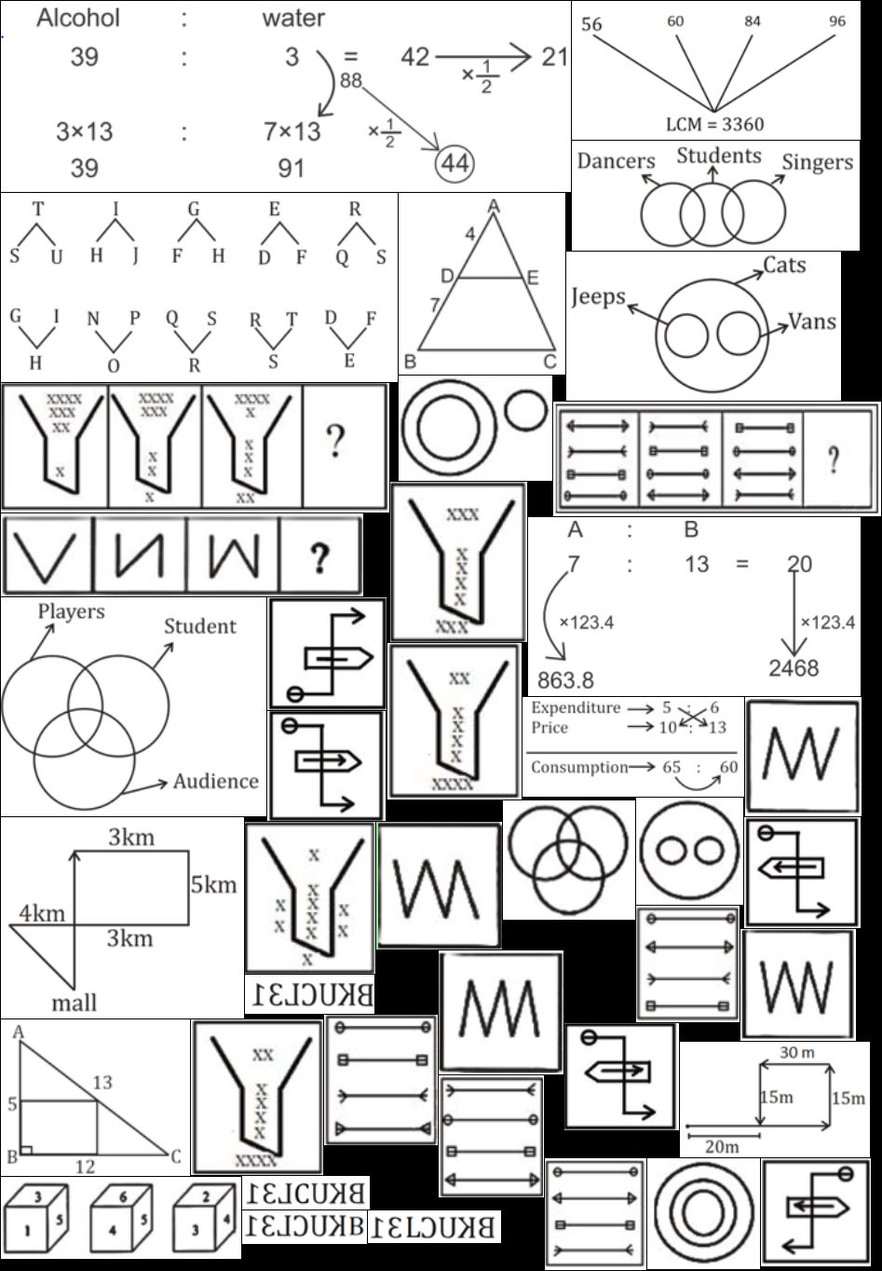
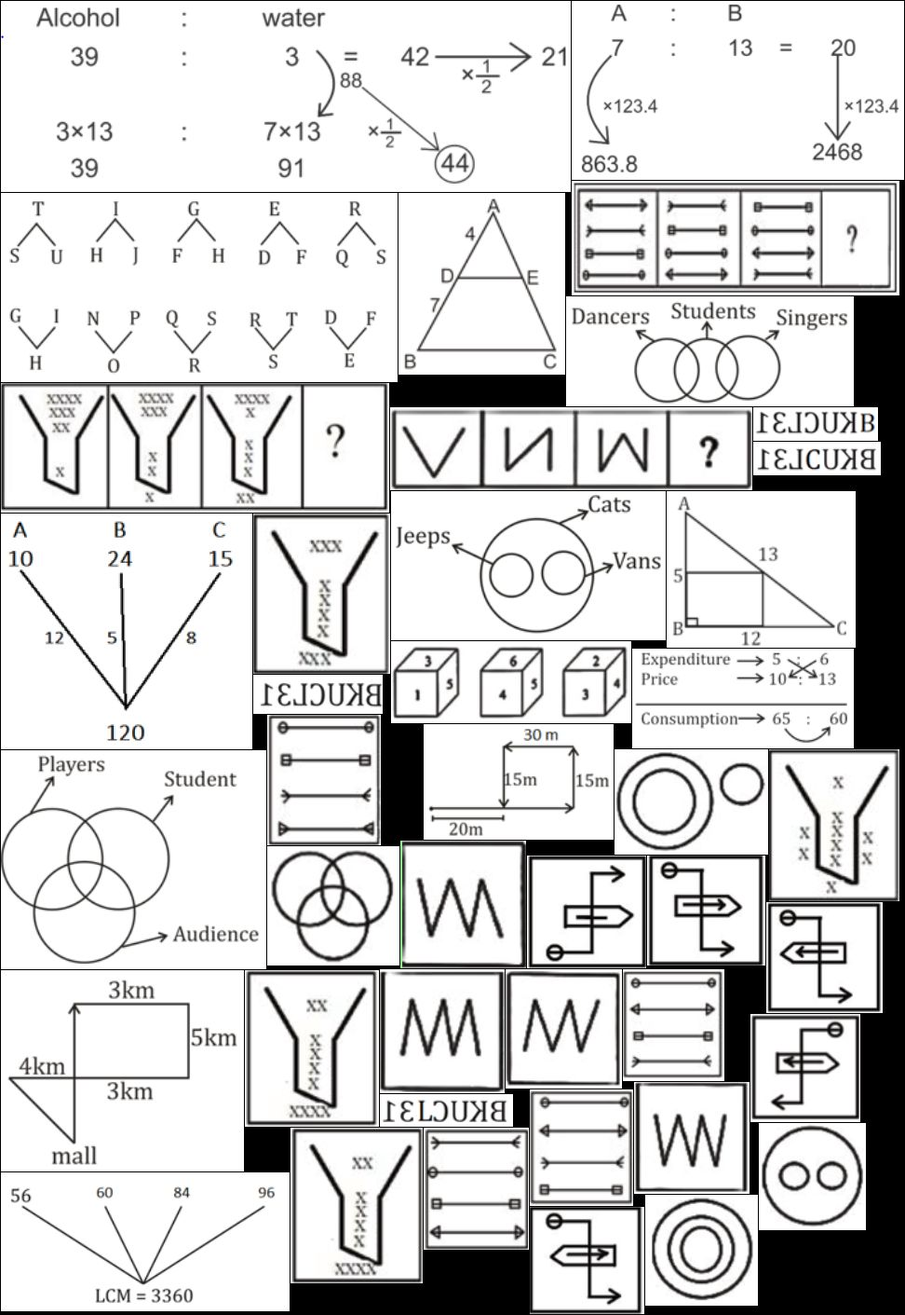
added.

diff --git a/img/railway/ntpc/model/prelims/ntpchinset7.css b/img/railway/ntpc/model/prelims/ntpchinset7.css
@@ -7,128 +7,131 @@ Responsive: <div class="yourspritesname"></div>
 */
 
 
+.RRBNTPC_7_1 {max-width:270px; max-height:253px; }
+.RRBNTPC_7_1::after {content: '\00a0';display: inline-block; width:270px; height:253px; background-position: 0.14245014245014245% 47.58203799654577%;background-size: 360% 557.7075098814229%;background-image: url(ntpchinset7.jpg);padding: 0; }
+div.RRBNTPC_7_1::after {max-width:270px; width:100%;height:0;padding: 0 0 93.70370370370371% 0;}
 .RRBNTPC_7_11 {max-width:179px; max-height:195px; }
-.RRBNTPC_7_11::after {content: '\00a0';display: inline-block; width:179px; height:195px; background-position: 55.729166666666664% 17.70744225834046%;background-size: 529.0502793296089% 699.4871794871794%;background-image: url(ntpchinset7.jpg);padding: 0; }
+.RRBNTPC_7_11::after {content: '\00a0';display: inline-block; width:179px; height:195px; background-position: 53.97225725094577% 17.023026315789473%;background-size: 543.0167597765363% 723.5897435897435%;background-image: url(ntpchinset7.jpg);padding: 0; }
 div.RRBNTPC_7_11::after {max-width:179px; width:100%;height:0;padding: 0 0 108.93854748603351% 0;}
 .RRBNTPC_7_13 {max-width:612px; max-height:205px; }
-.RRBNTPC_7_13::after {content: '\00a0';display: inline-block; width:612px; height:205px; background-position: 0.29850746268656714% 0.08628127696289906%;background-size: 154.73856209150327% 665.3658536585366%;background-image: url(ntpchinset7.jpg);padding: 0; }
+.RRBNTPC_7_13::after {content: '\00a0';display: inline-block; width:612px; height:205px; background-position: 0.2777777777777778% 0.08291873963515754%;background-size: 158.8235294117647% 688.2926829268292%;background-image: url(ntpchinset7.jpg);padding: 0; }
 div.RRBNTPC_7_13::after {max-width:612px; width:100%;height:0;padding: 0 0 33.49673202614379% 0;}
 .RRBNTPC_7_18 {max-width:310px; max-height:149px; }
-.RRBNTPC_7_18::after {content: '\00a0';display: inline-block; width:310px; height:149px; background-position: 96.38932496075353% 0.0823045267489712%;background-size: 305.48387096774195% 915.4362416107383%;background-image: url(ntpchinset7.jpg);padding: 0; }
+.RRBNTPC_7_18::after {content: '\00a0';display: inline-block; width:310px; height:149px; background-position: 0.1510574018126888% 99.68304278922345%;background-size: 313.5483870967742% 946.9798657718121%;background-image: url(ntpchinset7.jpg);padding: 0; }
 div.RRBNTPC_7_18::after {max-width:310px; width:100%;height:0;padding: 0 0 48.064516129032256% 0;}
 .RRBNTPC_7_19 {max-width:203px; max-height:168px; }
-.RRBNTPC_7_19::after {content: '\00a0';display: inline-block; width:203px; height:168px; background-position: 0.13440860215053763% 91.47157190635451%;background-size: 466.5024630541872% 811.9047619047619%;background-image: url(ntpchinset7.jpg);padding: 0; }
+.RRBNTPC_7_19::after {content: '\00a0';display: inline-block; width:203px; height:168px; background-position: 93.10793237971392% 42.39742558326629%;background-size: 478.81773399014776% 839.8809523809524%;background-image: url(ntpchinset7.jpg);padding: 0; }
 div.RRBNTPC_7_19::after {max-width:203px; width:100%;height:0;padding: 0 0 82.75862068965517% 0;}
 .RRBNTPC_7_3 {max-width:238px; max-height:107px; }
-.RRBNTPC_7_3::after {content: '\00a0';display: inline-block; width:238px; height:107px; background-position: 79.12552891396332% 59.50676213206046%;background-size: 397.89915966386553% 1274.766355140187%;background-image: url(ntpchinset7.jpg);padding: 0; }
+.RRBNTPC_7_3::after {content: '\00a0';display: inline-block; width:238px; height:107px; background-position: 92.50681198910081% 53.374233128834355%;background-size: 408.4033613445378% 1318.6915887850466%;background-image: url(ntpchinset7.jpg);padding: 0; }
 div.RRBNTPC_7_3::after {max-width:238px; width:100%;height:0;padding: 0 0 44.95798319327731% 0;}
 .RRBNTPC_7_33_1 {max-width:134px; max-height:36px; }
-.RRBNTPC_7_33_1::after {content: '\00a0';display: inline-block; width:134px; height:36px; background-position: 31.980319803198032% 97.81626506024097%;background-size: 706.7164179104477% 3788.8888888888887%;background-image: url(ntpchinset7.jpg);padding: 0; }
+.RRBNTPC_7_33_1::after {content: '\00a0';display: inline-block; width:134px; height:36px; background-position: 96.53937947494033% 31.78181818181818%;background-size: 725.3731343283582% 3919.4444444444443%;background-image: url(ntpchinset7.jpg);padding: 0; }
 div.RRBNTPC_7_33_1::after {max-width:134px; width:100%;height:0;padding: 0 0 26.865671641791046% 0;}
 .RRBNTPC_7_33_2 {max-width:137px; max-height:36px; }
-.RRBNTPC_7_33_2::after {content: '\00a0';display: inline-block; width:137px; height:36px; background-position: 32.098765432098766% 95.03012048192771%;background-size: 691.2408759124088% 3788.8888888888887%;background-image: url(ntpchinset7.jpg);padding: 0; }
+.RRBNTPC_7_33_2::after {content: '\00a0';display: inline-block; width:137px; height:36px; background-position: 96.88622754491018% 34.472727272727276%;background-size: 709.4890510948906% 3919.4444444444443%;background-image: url(ntpchinset7.jpg);padding: 0; }
 div.RRBNTPC_7_33_2::after {max-width:137px; width:100%;height:0;padding: 0 0 26.277372262773724% 0;}
 .RRBNTPC_7_33_3 {max-width:143px; max-height:35px; }
-.RRBNTPC_7_33_3::after {content: '\00a0';display: inline-block; width:143px; height:35px; background-position: 49.12935323383085% 97.74266365688487%;background-size: 662.2377622377622% 3897.1428571428573%;background-image: url(ntpchinset7.jpg);padding: 0; }
+.RRBNTPC_7_33_3::after {content: '\00a0';display: inline-block; width:143px; height:35px; background-position: 49.21592279855247% 85.31976744186046%;background-size: 679.7202797202797% 4031.4285714285716%;background-image: url(ntpchinset7.jpg);padding: 0; }
 div.RRBNTPC_7_33_3::after {max-width:143px; width:100%;height:0;padding: 0 0 24.475524475524477% 0;}
 .RRBNTPC_7_33_4 {max-width:139px; max-height:42px; }
-.RRBNTPC_7_33_4::after {content: '\00a0';display: inline-block; width:139px; height:42px; background-position: 32.54950495049505% 79.12254160363086%;background-size: 681.294964028777% 3247.6190476190477%;background-image: url(ntpchinset7.jpg);padding: 0; }
+.RRBNTPC_7_33_4::after {content: '\00a0';display: inline-block; width:139px; height:42px; background-position: 32.6530612244898% 52.885317750182615%;background-size: 699.2805755395683% 3359.5238095238096%;background-image: url(ntpchinset7.jpg);padding: 0; }
 div.RRBNTPC_7_33_4::after {max-width:139px; width:100%;height:0;padding: 0 0 30.215827338129497% 0;}
 .RRBNTPC_7_38 {max-width:417px; max-height:139px; }
-.RRBNTPC_7_38::after {content: '\00a0';display: inline-block; width:417px; height:139px; background-position: 0.18867924528301888% 33.55102040816327%;background-size: 227.09832134292566% 981.294964028777%;background-image: url(ntpchinset7.jpg);padding: 0; }
+.RRBNTPC_7_38::after {content: '\00a0';display: inline-block; width:417px; height:139px; background-position: 0.18018018018018017% 32.31132075471698%;background-size: 233.0935251798561% 1015.1079136690647%;background-image: url(ntpchinset7.jpg);padding: 0; }
 div.RRBNTPC_7_38::after {max-width:417px; width:100%;height:0;padding: 0 0 33.333333333333336% 0;}
 .RRBNTPC_7_38_1 {max-width:147px; max-height:172px; }
-.RRBNTPC_7_38_1::after {content: '\00a0';display: inline-block; width:147px; height:172px; background-position: 52.375% 43.37248322147651%;background-size: 644.2176870748299% 793.0232558139535%;background-image: url(ntpchinset7.jpg);padding: 0; }
+.RRBNTPC_7_38_1::after {content: '\00a0';display: inline-block; width:147px; height:172px; background-position: 32.96969696969697% 44.47134786117837%;background-size: 661.2244897959183% 820.3488372093024%;background-image: url(ntpchinset7.jpg);padding: 0; }
 div.RRBNTPC_7_38_1::after {max-width:147px; width:100%;height:0;padding: 0 0 117.00680272108843% 0;}
 .RRBNTPC_7_38_2 {max-width:144px; max-height:168px; }
-.RRBNTPC_7_38_2::after {content: '\00a0';display: inline-block; width:144px; height:168px; background-position: 51.805728518057286% 57.69230769230769%;background-size: 657.6388888888889% 811.9047619047619%;background-image: url(ntpchinset7.jpg);padding: 0; }
+.RRBNTPC_7_38_2::after {content: '\00a0';display: inline-block; width:144px; height:168px; background-position: 31.76328502415459% 83.7489943684634%;background-size: 675% 839.8809523809524%;background-image: url(ntpchinset7.jpg);padding: 0; }
 div.RRBNTPC_7_38_2::after {max-width:144px; width:100%;height:0;padding: 0 0 116.66666666666667% 0;}
 .RRBNTPC_7_38_3 {max-width:142px; max-height:167px; }
-.RRBNTPC_7_38_3::after {content: '\00a0';display: inline-block; width:142px; height:167px; background-position: 25.46583850931677% 91.3951545530493%;background-size: 666.9014084507043% 816.7664670658683%;background-image: url(ntpchinset7.jpg);padding: 0; }
+.RRBNTPC_7_38_3::after {content: '\00a0';display: inline-block; width:142px; height:167px; background-position: 37.59036144578313% 97.26688102893891%;background-size: 684.5070422535211% 844.9101796407185%;background-image: url(ntpchinset7.jpg);padding: 0; }
 div.RRBNTPC_7_38_3::after {max-width:142px; width:100%;height:0;padding: 0 0 117.6056338028169% 0;}
 .RRBNTPC_7_38_4 {max-width:140px; max-height:163px; }
-.RRBNTPC_7_38_4::after {content: '\00a0';display: inline-block; width:140px; height:163px; background-position: 32.58983890954151% 73.43880099916736%;background-size: 676.4285714285714% 836.8098159509202%;background-image: url(ntpchinset7.jpg);padding: 0; }
+.RRBNTPC_7_38_4::after {content: '\00a0';display: inline-block; width:140px; height:163px; background-position: 99.27884615384616% 64.42307692307692%;background-size: 694.2857142857143% 865.6441717791411%;background-image: url(ntpchinset7.jpg);padding: 0; }
 div.RRBNTPC_7_38_4::after {max-width:140px; width:100%;height:0;padding: 0 0 116.42857142857143% 0;}
 .RRBNTPC_7_39 {max-width:204px; max-height:124px; }
-.RRBNTPC_7_39::after {content: '\00a0';display: inline-block; width:204px; height:124px; background-position: 98.25033647375504% 90.16129032258064%;background-size: 464.2156862745098% 1100%;background-image: url(ntpchinset7.jpg);padding: 0; }
+.RRBNTPC_7_39::after {content: '\00a0';display: inline-block; width:204px; height:124px; background-position: 59.244791666666664% 60.37296037296037%;background-size: 476.47058823529414% 1137.9032258064517%;background-image: url(ntpchinset7.jpg);padding: 0; }
 div.RRBNTPC_7_39::after {max-width:204px; width:100%;height:0;padding: 0 0 60.78431372549019% 0;}
 .RRBNTPC_7_40 {max-width:309px; max-height:118px; }
-.RRBNTPC_7_40::after {content: '\00a0';display: inline-block; width:309px; height:118px; background-position: 96.23824451410658% 12.118780096308186%;background-size: 306.4724919093851% 1155.9322033898304%;background-image: url(ntpchinset7.jpg);padding: 0; }
+.RRBNTPC_7_40::after {content: '\00a0';display: inline-block; width:309px; height:118px; background-position: 91.70437405731523% 24.593967517401392%;background-size: 314.56310679611653% 1195.7627118644068%;background-image: url(ntpchinset7.jpg);padding: 0; }
 div.RRBNTPC_7_40::after {max-width:309px; width:100%;height:0;padding: 0 0 38.18770226537217% 0;}
 .RRBNTPC_7_43 {max-width:352px; max-height:123px; }
-.RRBNTPC_7_43::after {content: '\00a0';display: inline-block; width:352px; height:123px; background-position: 99.83193277310924% 34.73005640612409%;background-size: 269.03409090909093% 1108.9430894308944%;background-image: url(ntpchinset7.jpg);padding: 0; }
+.RRBNTPC_7_43::after {content: '\00a0';display: inline-block; width:352px; height:123px; background-position: 99.03225806451613% 15.062111801242237%;background-size: 276.1363636363636% 1147.1544715447155%;background-image: url(ntpchinset7.jpg);padding: 0; }
 div.RRBNTPC_7_43::after {max-width:352px; width:100%;height:0;padding: 0 0 34.94318181818182% 0;}
 .RRBNTPC_7_43_1 {max-width:122px; max-height:140px; }
-.RRBNTPC_7_43_1::after {content: '\00a0';display: inline-block; width:122px; height:140px; background-position: 42.18181818181818% 88.97058823529412%;background-size: 776.2295081967213% 974.2857142857143%;background-image: url(ntpchinset7.jpg);padding: 0; }
+.RRBNTPC_7_43_1::after {content: '\00a0';display: inline-block; width:122px; height:140px; background-position: 33.76470588235294% 60.34618410700236%;background-size: 796.7213114754098% 1007.8571428571429%;background-image: url(ntpchinset7.jpg);padding: 0; }
 div.RRBNTPC_7_43_1::after {max-width:122px; width:100%;height:0;padding: 0 0 114.75409836065573% 0;}
 .RRBNTPC_7_43_2 {max-width:109px; max-height:120px; }
-.RRBNTPC_7_43_2::after {content: '\00a0';display: inline-block; width:109px; height:120px; background-position: 69.8090692124105% 99.91961414790997%;background-size: 868.8073394495412% 1136.6666666666667%;background-image: url(ntpchinset7.jpg);padding: 0; }
+.RRBNTPC_7_43_2::after {content: '\00a0';display: inline-block; width:109px; height:120px; background-position: 77.52027809965237% 80.55770720371805%;background-size: 891.743119266055% 1175.8333333333333%;background-image: url(ntpchinset7.jpg);padding: 0; }
 div.RRBNTPC_7_43_2::after {max-width:109px; width:100%;height:0;padding: 0 0 110.09174311926606% 0;}
 .RRBNTPC_7_43_3 {max-width:111px; max-height:125px; }
-.RRBNTPC_7_43_3::after {content: '\00a0';display: inline-block; width:111px; height:125px; background-position: 81.69856459330144% 78.4503631961259%;background-size: 853.1531531531532% 1091.2%;background-image: url(ntpchinset7.jpg);padding: 0; }
+.RRBNTPC_7_43_3::after {content: '\00a0';display: inline-block; width:111px; height:125px; background-position: 66.08594657375146% 90.90202177293935%;background-size: 875.6756756756756% 1128.8%;background-image: url(ntpchinset7.jpg);padding: 0; }
 div.RRBNTPC_7_43_3::after {max-width:111px; width:100%;height:0;padding: 0 0 112.61261261261261% 0;}
 .RRBNTPC_7_43_4 {max-width:113px; max-height:131px; }
-.RRBNTPC_7_43_4::after {content: '\00a0';display: inline-block; width:113px; height:131px; background-position: 56.47482014388489% 93.59286293592864%;background-size: 838.0530973451328% 1041.2213740458014%;background-image: url(ntpchinset7.jpg);padding: 0; }
+.RRBNTPC_7_43_4::after {content: '\00a0';display: inline-block; width:113px; height:131px; background-position: 52.968568102444706% 94.53125%;background-size: 860.1769911504425% 1077.0992366412213%;background-image: url(ntpchinset7.jpg);padding: 0; }
 div.RRBNTPC_7_43_4::after {max-width:113px; width:100%;height:0;padding: 0 0 115.929203539823% 0;}
 .RRBNTPC_7_47 {max-width:118px; max-height:116px; }
-.RRBNTPC_7_47::after {content: '\00a0';display: inline-block; width:118px; height:116px; background-position: 98.55247285886611% 99.59935897435898%;background-size: 802.542372881356% 1175.8620689655172%;background-image: url(ntpchinset7.jpg);padding: 0; }
+.RRBNTPC_7_47::after {content: '\00a0';display: inline-block; width:118px; height:116px; background-position: 94.37939110070258% 84.01544401544402%;background-size: 823.728813559322% 1216.3793103448277%;background-image: url(ntpchinset7.jpg);padding: 0; }
 div.RRBNTPC_7_47::after {max-width:118px; width:100%;height:0;padding: 0 0 98.30508474576271% 0;}
 .RRBNTPC_7_47_o_1 {max-width:125px; max-height:119px; }
-.RRBNTPC_7_47_o_1::after {content: '\00a0';display: inline-block; width:125px; height:119px; background-position: 97.20194647201946% 70.4417670682731%;background-size: 757.6% 1146.218487394958%;background-image: url(ntpchinset7.jpg);padding: 0; }
+.RRBNTPC_7_47_o_1::after {content: '\00a0';display: inline-block; width:125px; height:119px; background-position: 97.16646989374262% 74.92260061919505%;background-size: 777.6% 1185.7142857142858%;background-image: url(ntpchinset7.jpg);padding: 0; }
 div.RRBNTPC_7_47_o_1::after {max-width:125px; width:100%;height:0;padding: 0 0 95.2% 0;}
 .RRBNTPC_7_47_o_2 {max-width:123px; max-height:115px; }
-.RRBNTPC_7_47_o_2::after {content: '\00a0';display: inline-block; width:123px; height:115px; background-position: 73.54368932038835% 87.9103282626101%;background-size: 769.9186991869918% 1186.0869565217392%;background-image: url(ntpchinset7.jpg);padding: 0; }
+.RRBNTPC_7_47_o_2::after {content: '\00a0';display: inline-block; width:123px; height:115px; background-position: 67.02002355712602% 99.92283950617283%;background-size: 790.2439024390244% 1226.9565217391305%;background-image: url(ntpchinset7.jpg);padding: 0; }
 div.RRBNTPC_7_47_o_2::after {max-width:123px; width:100%;height:0;padding: 0 0 93.4959349593496% 0;}
 .RRBNTPC_7_47_o_3 {max-width:127px; max-height:118px; }
-.RRBNTPC_7_47_o_3::after {content: '\00a0';display: inline-block; width:127px; height:118px; background-position: 35% 61.235955056179776%;background-size: 745.6692913385826% 1155.9322033898304%;background-image: url(ntpchinset7.jpg);padding: 0; }
+.RRBNTPC_7_47_o_3::after {content: '\00a0';display: inline-block; width:127px; height:118px; background-position: 82.24852071005917% 70.99767981438515%;background-size: 765.3543307086615% 1195.7627118644068%;background-image: url(ntpchinset7.jpg);padding: 0; }
 div.RRBNTPC_7_47_o_3::after {max-width:127px; width:100%;height:0;padding: 0 0 92.91338582677166% 0;}
 .RRBNTPC_7_47_o_4 {max-width:128px; max-height:121px; }
-.RRBNTPC_7_47_o_4::after {content: '\00a0';display: inline-block; width:128px; height:121px; background-position: 35.042735042735046% 51.56878519710378%;background-size: 739.84375% 1127.2727272727273%;background-image: url(ntpchinset7.jpg);padding: 0; }
+.RRBNTPC_7_47_o_4::after {content: '\00a0';display: inline-block; width:128px; height:121px; background-position: 67.06161137440758% 71.16279069767442%;background-size: 759.375% 1166.1157024793388%;background-image: url(ntpchinset7.jpg);padding: 0; }
 div.RRBNTPC_7_47_o_4::after {max-width:128px; width:100%;height:0;padding: 0 0 94.53125% 0;}
 .RRBNTPC_7_50 {max-width:295px; max-height:160px; }
-.RRBNTPC_7_50::after {content: '\00a0';display: inline-block; width:295px; height:160px; background-position: 93.25153374233129% 22.425249169435215%;background-size: 321.0169491525424% 852.5%;background-image: url(ntpchinset7.jpg);padding: 0; }
+.RRBNTPC_7_50::after {content: '\00a0';display: inline-block; width:295px; height:160px; background-position: 62.0384047267356% 42.126298960831335%;background-size: 329.49152542372883% 881.875%;background-image: url(ntpchinset7.jpg);padding: 0; }
 div.RRBNTPC_7_50::after {max-width:295px; width:100%;height:0;padding: 0 0 54.23728813559322% 0;}
 .RRBNTPC_7_53 {max-width:426px; max-height:203px; }
-.RRBNTPC_7_53::after {content: '\00a0';display: inline-block; width:426px; height:203px; background-position: 0.19193857965451055% 17.829457364341085%;background-size: 222.30046948356807% 671.9211822660099%;background-image: url(ntpchinset7.jpg);padding: 0; }
+.RRBNTPC_7_53::after {content: '\00a0';display: inline-block; width:426px; height:203px; background-position: 0.18315018315018314% 17.135761589403973%;background-size: 228.16901408450704% 695.0738916256157%;background-image: url(ntpchinset7.jpg);padding: 0; }
 div.RRBNTPC_7_53::after {max-width:426px; width:100%;height:0;padding: 0 0 47.652582159624416% 0;}
 .RRBNTPC_7_56_o_1 {max-width:115px; max-height:115px; }
-.RRBNTPC_7_56_o_1::after {content: '\00a0';display: inline-block; width:115px; height:115px; background-position: 82.09134615384616% 68.53482786228983%;background-size: 823.4782608695652% 1186.0869565217392%;background-image: url(ntpchinset7.jpg);padding: 0; }
+.RRBNTPC_7_56_o_1::after {content: '\00a0';display: inline-block; width:115px; height:115px; background-position: 95.09918319719954% 92.97839506172839%;background-size: 845.2173913043479% 1226.9565217391305%;background-image: url(ntpchinset7.jpg);padding: 0; }
 div.RRBNTPC_7_56_o_1::after {max-width:115px; width:100%;height:0;padding: 0 0 100% 0;}
 .RRBNTPC_7_56_o_2 {max-width:142px; max-height:128px; }
-.RRBNTPC_7_56_o_2::after {content: '\00a0';display: inline-block; width:142px; height:128px; background-position: 67.0807453416149% 69.49838187702265%;background-size: 666.9014084507043% 1065.625%;background-image: url(ntpchinset7.jpg);padding: 0; }
+.RRBNTPC_7_56_o_2::after {content: '\00a0';display: inline-block; width:142px; height:128px; background-position: 34.57831325301205% 70.77162899454403%;background-size: 684.5070422535211% 1102.34375%;background-image: url(ntpchinset7.jpg);padding: 0; }
 div.RRBNTPC_7_56_o_2::after {max-width:142px; width:100%;height:0;padding: 0 0 90.14084507042253% 0;}
 .RRBNTPC_7_56_o_3 {max-width:165px; max-height:113px; }
-.RRBNTPC_7_56_o_3::after {content: '\00a0';display: inline-block; width:165px; height:113px; background-position: 54.73145780051151% 32.214228617106315%;background-size: 573.939393939394% 1207.0796460176991%;background-image: url(ntpchinset7.jpg);padding: 0; }
+.RRBNTPC_7_56_o_3::after {content: '\00a0';display: inline-block; width:165px; height:113px; background-position: 81.78438661710037% 61.941448382126346%;background-size: 589.0909090909091% 1248.6725663716813%;background-image: url(ntpchinset7.jpg);padding: 0; }
 div.RRBNTPC_7_56_o_3::after {max-width:165px; width:100%;height:0;padding: 0 0 68.48484848484848% 0;}
 .RRBNTPC_7_56_o_4 {max-width:121px; max-height:119px; }
-.RRBNTPC_7_56_o_4::after {content: '\00a0';display: inline-block; width:121px; height:119px; background-position: 84.14043583535108% 99.83935742971887%;background-size: 782.6446280991736% 1146.218487394958%;background-image: url(ntpchinset7.jpg);padding: 0; }
+.RRBNTPC_7_56_o_4::after {content: '\00a0';display: inline-block; width:121px; height:119px; background-position: 81.43360752056404% 99.22600619195046%;background-size: 803.305785123967% 1185.7142857142858%;background-image: url(ntpchinset7.jpg);padding: 0; }
 div.RRBNTPC_7_56_o_4::after {max-width:121px; width:100%;height:0;padding: 0 0 98.34710743801652% 0;}
 .RRBNTPC_7_56_s {max-width:285px; max-height:235px; }
-.RRBNTPC_7_56_s::after {content: '\00a0';display: inline-block; width:285px; height:235px; background-position: 0.1510574018126888% 56.775907883082375%;background-size: 332.280701754386% 580.4255319148937%;background-image: url(ntpchinset7.jpg);padding: 0; }
+.RRBNTPC_7_56_s::after {content: '\00a0';display: inline-block; width:285px; height:235px; background-position: 0.14556040756914118% 68.45238095238095%;background-size: 341.05263157894734% 600.4255319148937%;background-image: url(ntpchinset7.jpg);padding: 0; }
 div.RRBNTPC_7_56_s::after {max-width:285px; width:100%;height:0;padding: 0 0 82.45614035087719% 0;}
 .RRBNTPC_7_57 {max-width:261px; max-height:216px; }
-.RRBNTPC_7_57::after {content: '\00a0';display: inline-block; width:261px; height:216px; background-position: 0.1457725947521866% 76.39372822299651%;background-size: 362.8352490421456% 631.4814814814815%;background-image: url(ntpchinset7.jpg);padding: 0; }
+.RRBNTPC_7_57::after {content: '\00a0';display: inline-block; width:261px; height:216px; background-position: 0.14064697609001406% 87.11297071129707%;background-size: 372.41379310344826% 653.2407407407408%;background-image: url(ntpchinset7.jpg);padding: 0; }
 div.RRBNTPC_7_57::after {max-width:261px; width:100%;height:0;padding: 0 0 82.75862068965517% 0;}
 .RRBNTPC_7_58 {max-width:389px; max-height:89px; }
-.RRBNTPC_7_58::after {content: '\00a0';display: inline-block; width:389px; height:89px; background-position: 0.17921146953405018% 43.21568627450981%;background-size: 243.44473007712082% 1532.5842696629213%;background-image: url(ntpchinset7.jpg);padding: 0; }
+.RRBNTPC_7_58::after {content: '\00a0';display: inline-block; width:389px; height:89px; background-position: 71.8696397941681% 33.05597579425113%;background-size: 249.87146529562983% 1585.3932584269662%;background-image: url(ntpchinset7.jpg);padding: 0; }
 div.RRBNTPC_7_58::after {max-width:389px; width:100%;height:0;padding: 0 0 22.87917737789203% 0;}
 .RRBNTPC_7_58_o_1 {max-width:125px; max-height:128px; }
-.RRBNTPC_7_58_o_1::after {content: '\00a0';display: inline-block; width:125px; height:128px; background-position: 97.32360097323601% 60.51779935275081%;background-size: 757.6% 1065.625%;background-image: url(ntpchinset7.jpg);padding: 0; }
+.RRBNTPC_7_58_o_1::after {content: '\00a0';display: inline-block; width:125px; height:128px; background-position: 64.1086186540732% 81.06001558846454%;background-size: 777.6% 1102.34375%;background-image: url(ntpchinset7.jpg);padding: 0; }
 div.RRBNTPC_7_58_o_1::after {max-width:125px; width:100%;height:0;padding: 0 0 102.4% 0;}
 .RRBNTPC_7_58_o_2 {max-width:124px; max-height:120px; }
-.RRBNTPC_7_58_o_2::after {content: '\00a0';display: inline-block; width:124px; height:120px; background-position: 96.59781287970839% 80.14469453376206%;background-size: 763.7096774193549% 1136.6666666666667%;background-image: url(ntpchinset7.jpg);padding: 0; }
+.RRBNTPC_7_58_o_2::after {content: '\00a0';display: inline-block; width:124px; height:120px; background-position: 80.30660377358491% 89.93028659953525%;background-size: 783.8709677419355% 1175.8333333333333%;background-image: url(ntpchinset7.jpg);padding: 0; }
 div.RRBNTPC_7_58_o_2::after {max-width:124px; width:100%;height:0;padding: 0 0 96.7741935483871% 0;}
 .RRBNTPC_7_58_o_3 {max-width:135px; max-height:137px; }
-.RRBNTPC_7_58_o_3::after {content: '\00a0';display: inline-block; width:135px; height:137px; background-position: 49.75369458128079% 71.88264058679707%;background-size: 701.4814814814815% 995.6204379562043%;background-image: url(ntpchinset7.jpg);padding: 0; }
+.RRBNTPC_7_58_o_3::after {content: '\00a0';display: inline-block; width:135px; height:137px; background-position: 51.37395459976105% 70.80062794348508%;background-size: 720% 1029.9270072992701%;background-image: url(ntpchinset7.jpg);padding: 0; }
 div.RRBNTPC_7_58_o_3::after {max-width:135px; width:100%;height:0;padding: 0 0 101.48148148148148% 0;}
 .RRBNTPC_7_58_o_4 {max-width:134px; max-height:133px; }
-.RRBNTPC_7_58_o_4::after {content: '\00a0';display: inline-block; width:134px; height:133px; background-position: 57.93357933579336% 82.85946385052803%;background-size: 706.7164179104477% 1025.563909774436%;background-image: url(ntpchinset7.jpg);padding: 0; }
+.RRBNTPC_7_58_o_4::after {content: '\00a0';display: inline-block; width:134px; height:133px; background-position: 48.68735083532219% 81.37715179968701%;background-size: 725.3731343283582% 1060.9022556390978%;background-image: url(ntpchinset7.jpg);padding: 0; }
 div.RRBNTPC_7_58_o_4::after {max-width:134px; width:100%;height:0;padding: 0 0 99.25373134328358% 0;}
 .RRBNTPC_7_60 {max-width:258px; max-height:88px; }
-.RRBNTPC_7_60::after {content: '\00a0';display: inline-block; width:258px; height:88px; background-position: 0.14513788098693758% 98.98119122257053%;background-size: 367.05426356589146% 1550%;background-image: url(ntpchinset7.jpg);padding: 0; }
+.RRBNTPC_7_60::after {content: '\00a0';display: inline-block; width:258px; height:88px; background-position: 58.8235294117647% 52.00302343159486%;background-size: 376.74418604651163% 1603.409090909091%;background-image: url(ntpchinset7.jpg);padding: 0; }
 div.RRBNTPC_7_60::after {max-width:258px; width:100%;height:0;padding: 0 0 34.10852713178294% 0;}
 .RRBNTPC_7_8 {max-width:357px; max-height:192px; }
-.RRBNTPC_7_8::after {content: '\00a0';display: inline-block; width:357px; height:192px; background-position: 96.10169491525424% 47.35494880546075%;background-size: 265.26610644257704% 710.4166666666666%;background-image: url(ntpchinset7.jpg);padding: 0; }
+.RRBNTPC_7_8::after {content: '\00a0';display: inline-block; width:357px; height:192px; background-position: 99.83739837398375% 0.08203445447087777%;background-size: 272.2689075630252% 734.8958333333334%;background-image: url(ntpchinset7.jpg);padding: 0; }
 div.RRBNTPC_7_8::after {max-width:357px; width:100%;height:0;padding: 0 0 53.78151260504202% 0;}
 
-/* $TexturePacker:SmartUpdate:a913913120f1b0f65fa04f90afdc24d5:34470a1c150f3b665699c5010570f0b2:e98acaeb3f0db9b7e8059dc574b90986$ */
+/* $TexturePacker:SmartUpdate:8b00a64e74c38728998a0500aa13f6b9:60f81d7ed0b9752ca185322fa540887e:e98acaeb3f0db9b7e8059dc574b90986$ */
